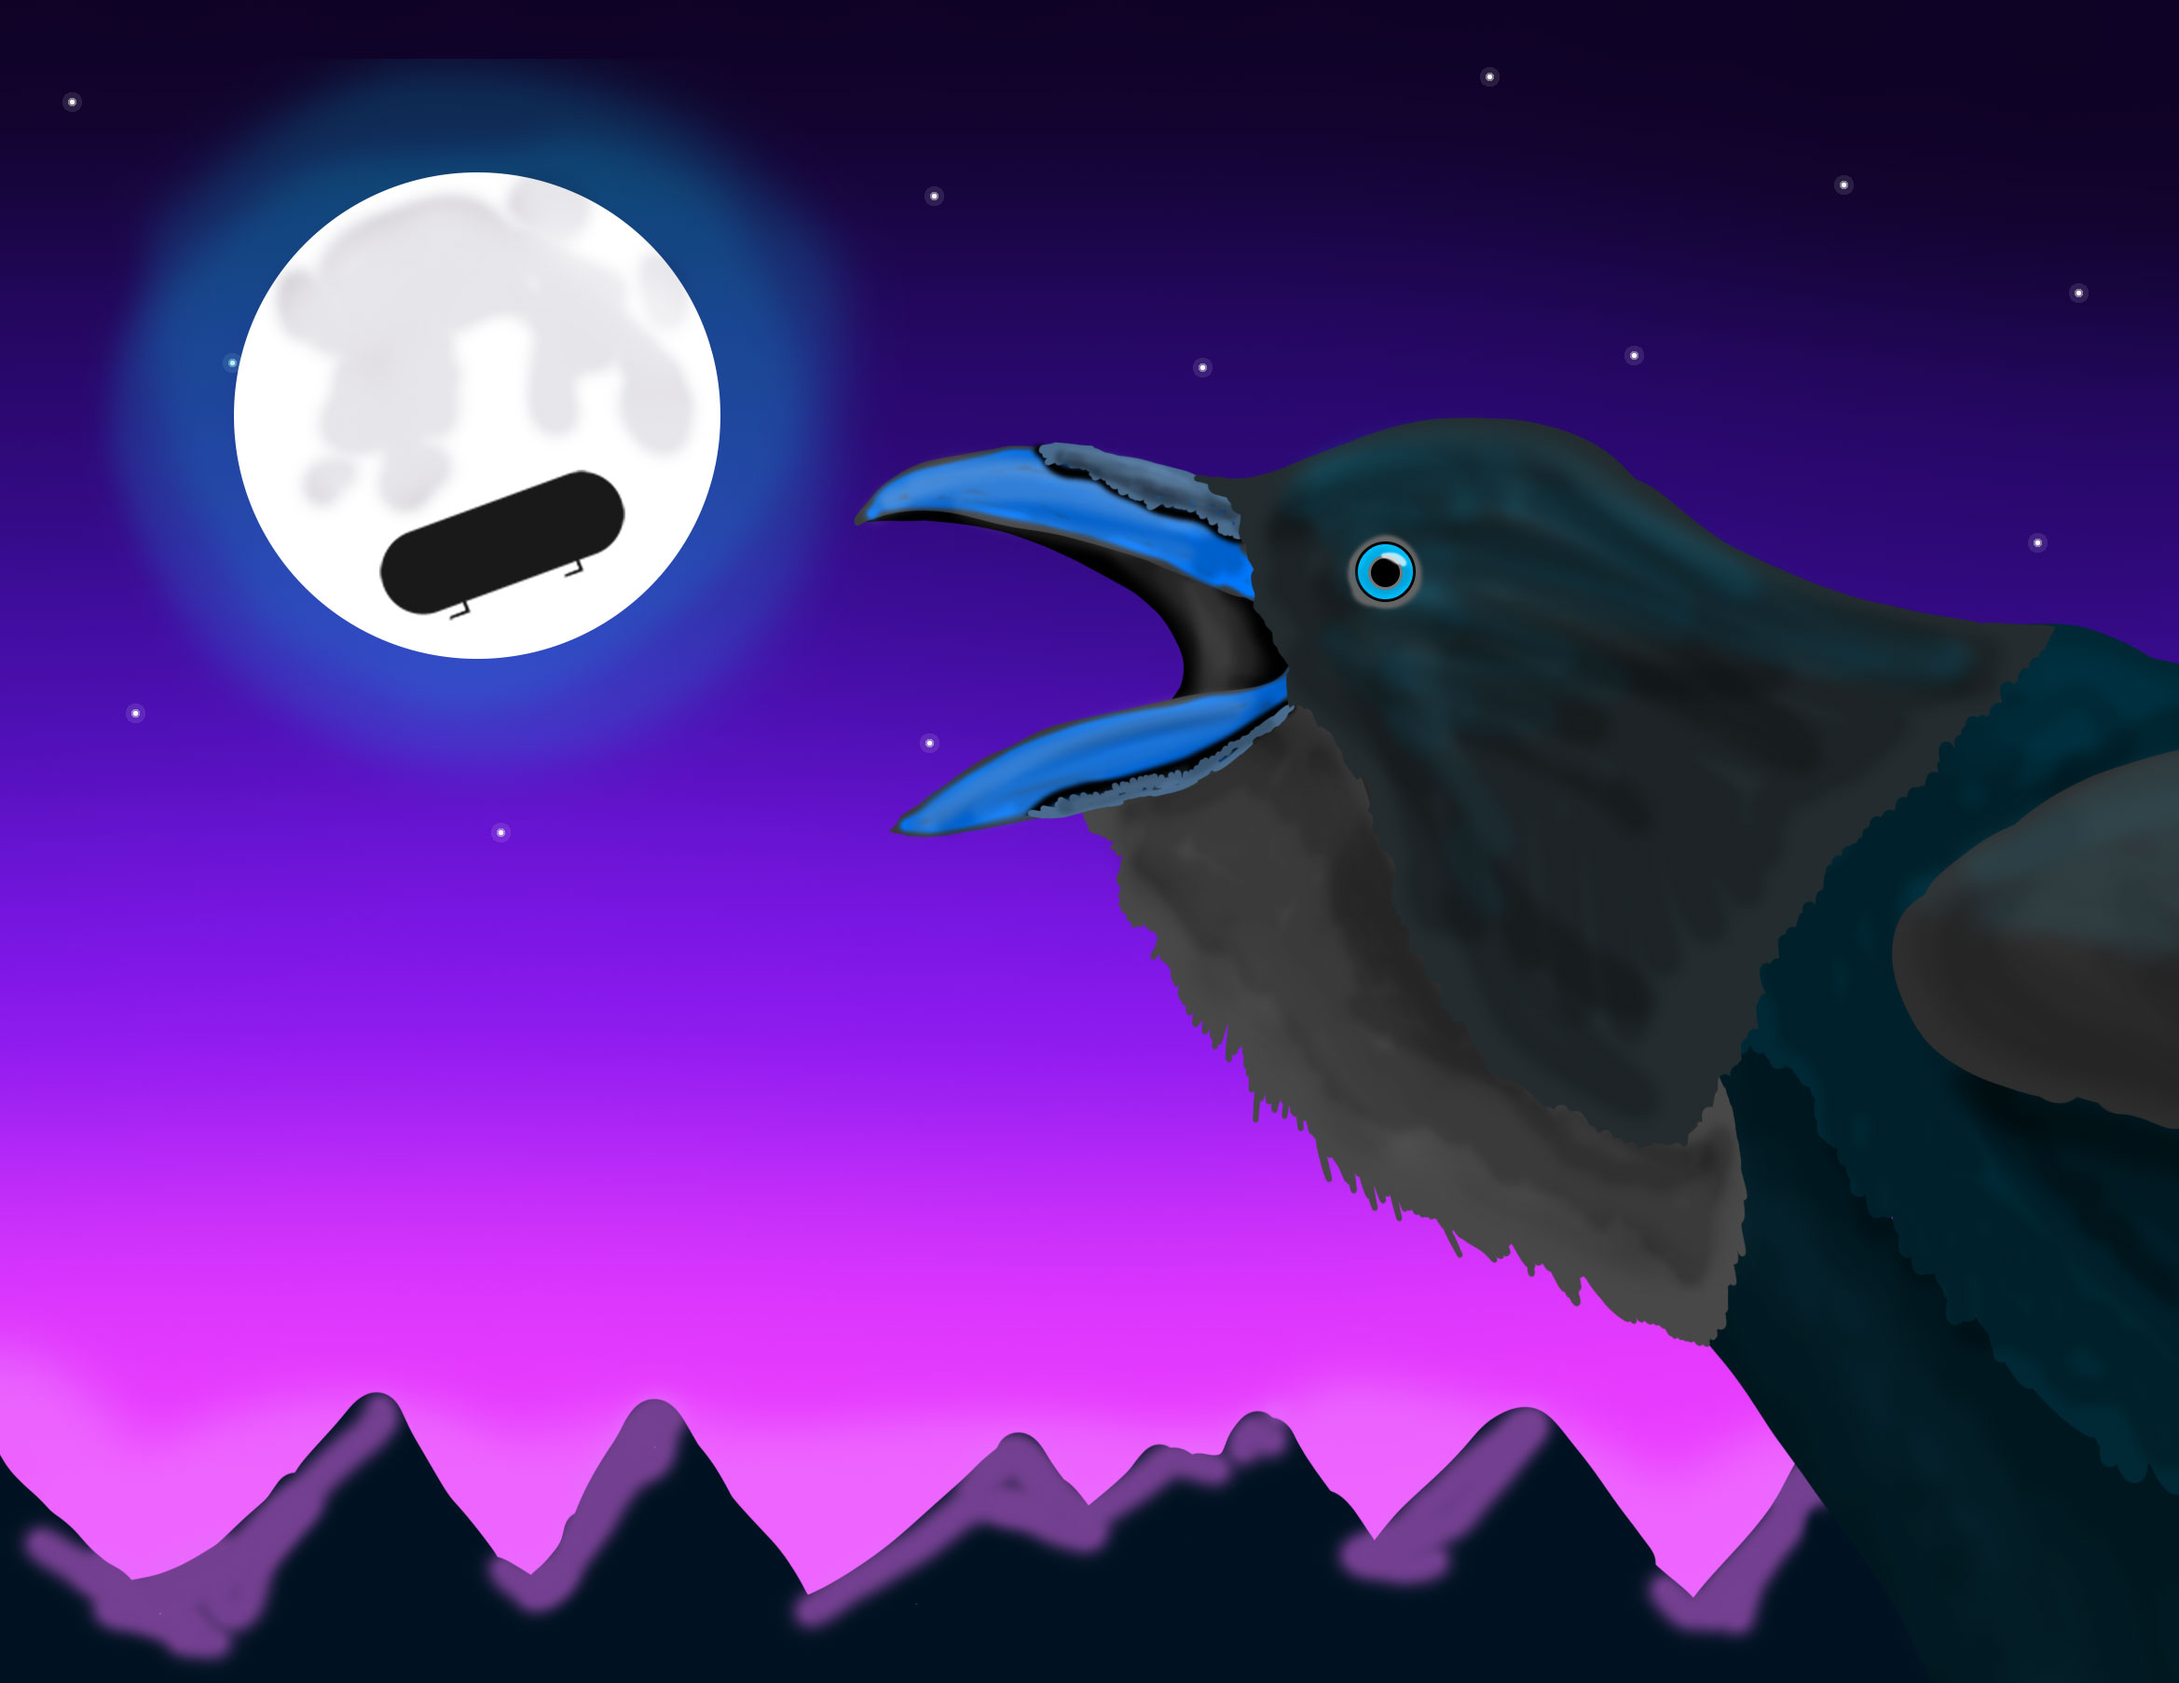
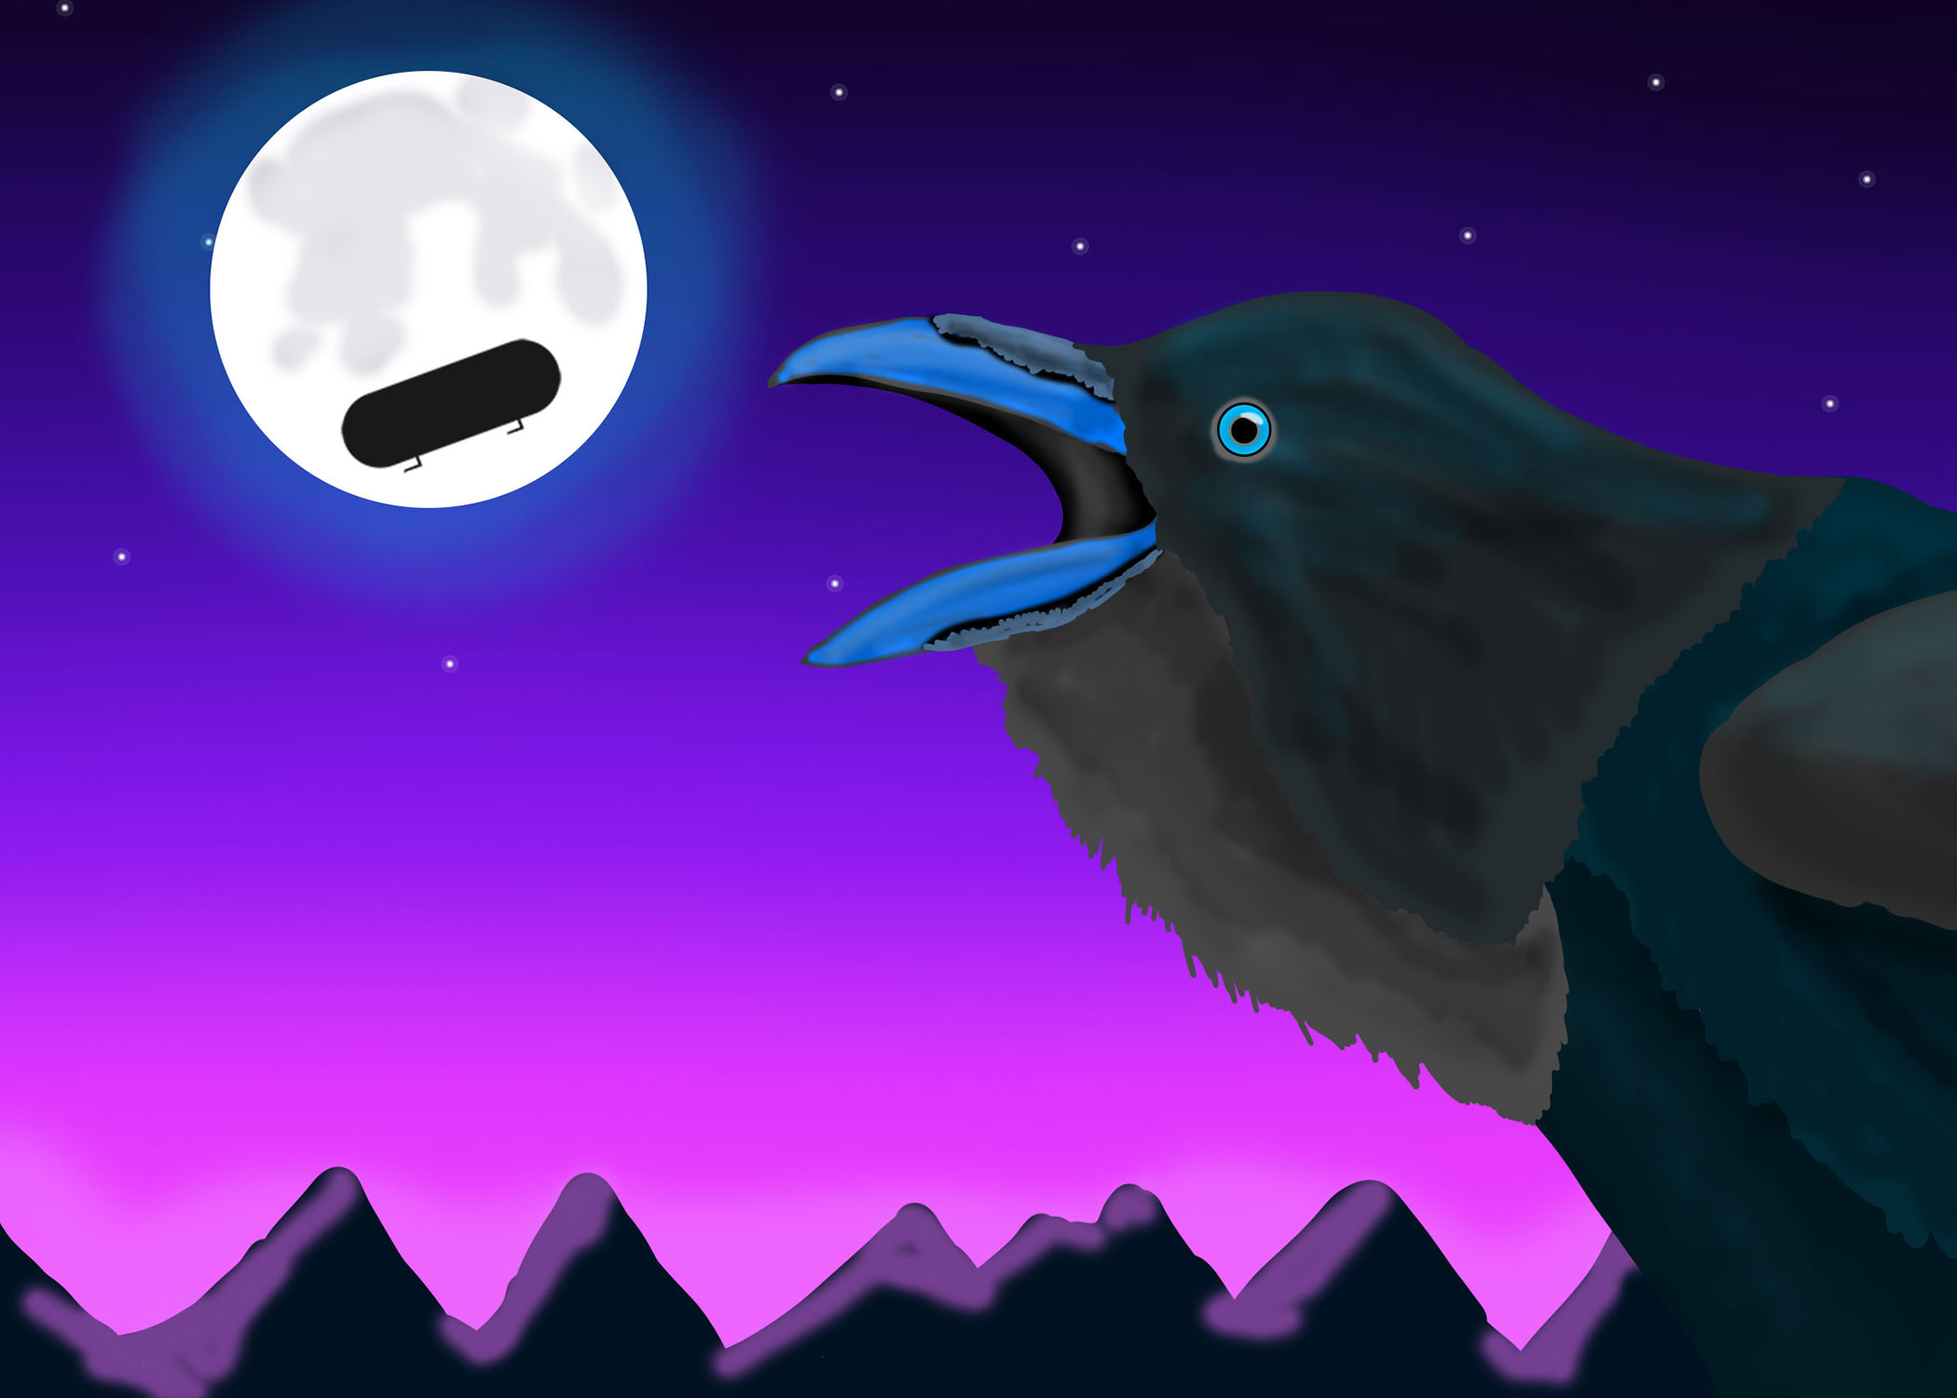
new images added

diff --git a/src/components/Gallery3.jsx b/src/components/Gallery3.jsx
@@ -28,6 +28,21 @@ const Gallery3 = () => {
       ],
       description: "The cover illustration for White Box Eastern Adventures Advanced Edition.  Hand drawn with a digital pen in Photoshop."
     },
+    {
+      type: 'pair',
+      id: 'pair1',
+      images: [
+        {
+          src: "/images/art-gallery3/art3_4.jpg",
+          alt: "Raven and the Moon"
+        },
+        {
+          src: "/images/art-gallery3/art3_5.jpg",
+          alt: "Cawing Crow and the Moon"
+        }
+      ],
+      description: "The Crow, the Moon and the UAP (Hand drawn digital illustrations using a digital pen and Photoshop)"
+    },
   ];
 
   const projectTitle = "Art Gallery 3";
